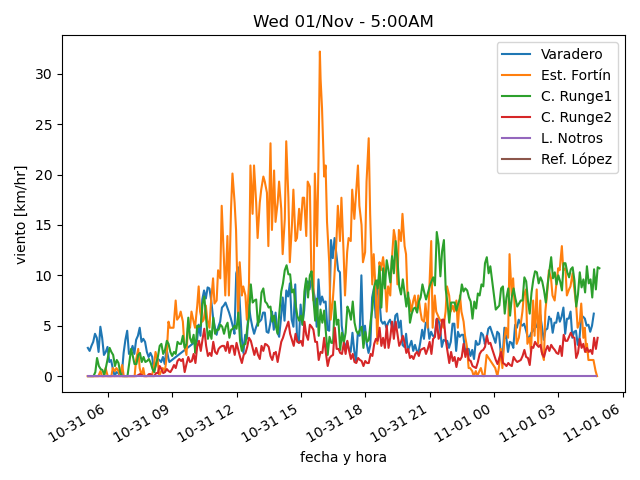
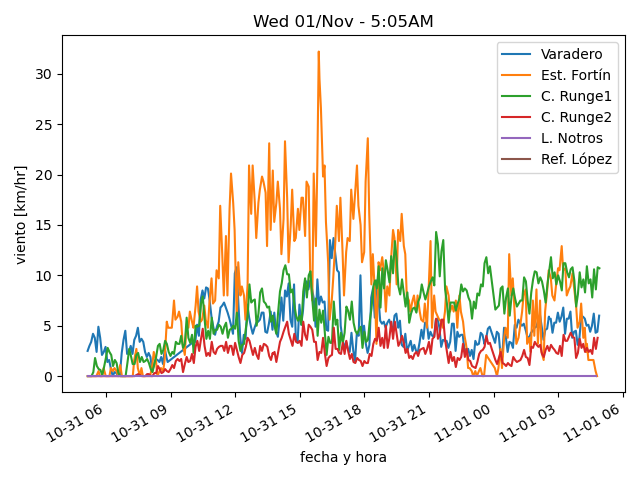
actualiza datos

diff --git a/estaciones/estacion1.html b/estaciones/estacion1.html
@@ -18,17 +18,17 @@
     </tr>
     <tr>
      <td class="stats_data">
-      4:39AM
+      4:54AM
      </td>
     </tr>
     <tr>
      <td class="stats_data">
-      2.8⁰C
+      2.9⁰C
      </td>
     </tr>
     <tr>
      <td class="stats_data">
-      2.1⁰C
+      2.2⁰C
      </td>
     </tr>
     <tr>
@@ -43,7 +43,7 @@
     </tr>
     <tr>
      <td class="stats_data">
-      4.1/6.2 km/hr NNE
+      4.1/6.0 km/hr SSE
      </td>
     </tr>
     <tr>
